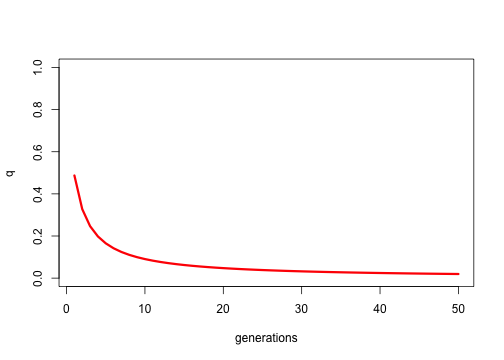
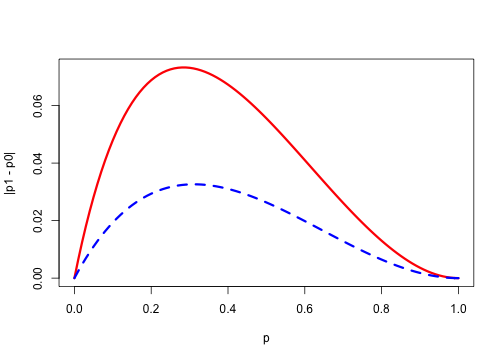
updated slides w2c2

diff --git a/2022-agro931/week2/week2_c2.html b/2022-agro931/week2/week2_c2.html
@@ -22,8 +22,6 @@ class: center, middle, inverse, title-slide
 
 
 
----
-
 # Selection
 
 Selection occurs due to differences in __viability__ and __fertility__ (natural or artificial)
@@ -48,7 +46,7 @@ The contribution of offspring to the next generation is called the __fitness__ o
 
 
 - Selection coefficient ( `\(s\)` ) 
-  - is the proportionate __REDUCTION__ in gametic contribution of a particular genotype _compared to the standard genotype_
+  - The proportionate __REDUCTION__ in gametic contribution of a particular genotype _compared to the standard genotype_
 
 - Relative fitness: `\(w = 1 -s\)`
   - Most fit is set to 1
@@ -186,7 +184,7 @@ plot(p, deltap(s=0.4, p), type="l", lwd=3, col="red", xlab="p", ylab="|p1 - p0|"
 lines(p, deltap(s=0.2, p), lty=2, lwd=3, col="blue")
 ```
 
-&lt;img src="week2_c2_files/figure-html/unnamed-chunk-1-1.png" style="display: block; margin: auto;" /&gt;
+&lt;img src="week2_c2_files/figure-html/unnamed-chunk-2-1.png" style="display: block; margin: auto;" /&gt;
 
 
 ---
@@ -199,11 +197,106 @@ lines(p, deltap(s=0.2, p), lty=2, lwd=3, col="blue")
   
   - Inefficient when targeted recessive allele is rare
 
+--
+
 ### Degree of dominance
+
+- It will become more complex
+
+---
+
+# Degree of dominance
+
+|                    | `\(A_1A_1\)`   | `\(A_1A_2\)`   | `\(A_2A_2\)`   | Total |
+| :-------: | : ------ : | :-------: | :-------: | :-------: |
+| Initial frq           | `\(p^2\)`    | `\(2pq\)`    | `\(q^2\)`     |  `\(1\)`        |
+| Fitness ( `\(w\)` ): recessive  |  `\(1\)`        |  `\(1\)`        |  `\(1 -s\)`   |   
+| Fitness ( `\(w\)` ): dominance   |  `\(w_{11}\)`        |  `\(w_{12}\)`        |  `\(w_{22}\)`   |            |
+| Gametic contribution | `\(p^2\)`   | `\(2pq\)`    | `\(q^2(1-s)\)`    |  `\(1-sq^2\)` |
+
+--
+
+### Recessive:
+
+`\begin{align*}
+p_1 &amp; = \frac{p^2 + pq}{p^2 + 2pq + q^2(1-s)} = \frac{p}{1- sq^2} \\
+\end{align*}`
+
+--
+
+### Degree of dominance:
+
+`\begin{align*}
+p_1 &amp; = \frac{p^2w_{11} + pqw_{12}}{p^2w_{11} + 2pqw_{12} + q^2w_{22}} \\
+\end{align*}`
+
+---
+
+# Average fitness
+
+`\begin{align*}
+p_1 &amp; = \frac{p^2w_{11} + pqw_{12}}{p^2w_{11} + 2pqw_{12} + q^2w_{22}} \\
+\end{align*}`
+
+`\begin{align*}
+\bar{w} = p^2w_{11} + 2pqw_{12} + q^2w_{22} \\
+\end{align*}`
+
+- `\(w_{11}\)`: genotype specific fitness for `\(A_1A_1\)`
+- `\(w_{12}\)`: genotype specific fitness for `\(A_1A_2\)`
+- `\(w_{22}\)`: genotype specific fitness for `\(A_2A_2\)`
+
+`\begin{align*}
+\Delta p &amp; = \frac{p^2w_{11} + pqw_{12}}{\bar{w}} - p \\
+&amp; = \frac{pq(p(w_{11} - w_{12}) + q(w_{12} - w_{22}))}{\bar{w}}
+\end{align*}`
+
+---
+
+# Practice Problem
+
+In a population of fireflies, allele `\(A_1\)` results in a brighter light. We wish to select for the `\(A_1\)` allele to save money on electricity.
+
+--
+
+36% of the population is `\(A_1A_1\)`. We spray all the dimly lit `\(A_2A_2\)` individuals so they are sterile but estimate that we missed 10%, which randomly mate with the others.
+
+--
+
+### Questions:
+
+- What is the fitness of each genotype?
+
+- What time of dominance model is this?
+
+- What is the proportion of fireflies _carrying_ the unwanted, `\(A_2\)` allele after one generation of selection?
+
+
+---
+
+# Average fitness
+
+- Define each of your variables ( `\(A_1\)`, `\(A_2\)`, `\(p\)`, `\(q\)` )
+
+- Identify % survial/contribution of each genotype
+
+- Calculate the relative fitness ( `\(w\)` ) for each genotype
+
+- Use the general equation with `\(\bar{w}\)`
+
+`\begin{align*}
+p_1 &amp; = \frac{p^2w_{11} + pqw_{12}}{p^2w_{11} + 2pqw_{12} + q^2w_{22}} \\
+\end{align*}`
+
+- When you get your answer does it make sense?
+
+  - For example, for the favorable allele, i.e., `\(A_1\)` allele, does `\(p_1\)` increase?
 
 ---
 
 # Allele freq change over time
+
+Selection for generations to achieve target frequency:
 
 - `\(p_0\)` = current frequency
 - `\(p_t\)` = frequency at future time
@@ -212,12 +305,9 @@ lines(p, deltap(s=0.2, p), lty=2, lwd=3, col="blue")
 --
 ----------
 
-
-
-
 ### Selection for Dominant allele ( `\(s=1\)` )
 
-(Same as selection against recessive genotype)
+It is the same as selection against recessive genotype.
 
 `\begin{align*}
 p_1 = &amp; \frac{p}{1 - sq^2} \\
@@ -244,8 +334,6 @@ p_2  &amp; = \frac{1+q}{1+2q} \\
 p_3  &amp; = \frac{1+2q}{1+3q} \\
 \end{align*}`
 
-
-
 --
 
 A pattern emerges ...
@@ -268,17 +356,57 @@ t &amp; = \frac{q_0 - q_t}{q_tq_0} = \frac{1}{q_t} - \frac{1}{q_0}
 
 # Simulation for selection against recessive
 
+`\begin{align*}
+p_t  &amp; = \frac{1+(t-1)q_0}{1+tq_0} \\
+q_t  &amp; = 1- p_t = \frac{q_0}{1+tq_0} \\
+\end{align*}`
+
 
 ```r
-qt &lt;- function(q0, t){
-  return(q0/(1+t*q0))
-}
-
-t &lt;- 1:50
-plot(t, qt(0.95, t), type="l", lwd=3, col="red", xlab="generations", ylab="q", ylim=c(0, 1))
+get_pt &lt;- function(p0, t){
+  q0 &lt;- 1 - p0
+  return(1- q0/(1+t*q0))
+  }
 ```
 
-&lt;img src="week2_c2_files/figure-html/unnamed-chunk-2-1.png" style="display: block; margin: auto;" /&gt;
+--
+
+`\begin{align*}
+t &amp; = \frac{q_0 - q_t}{q_tq_0} = \frac{1}{q_t} - \frac{1}{q_0}
+\end{align*}`
+
+
+```r
+get_t &lt;- function(p0, pt){
+  q0 = 1- p0
+  qt = 1 - pt
+  return(1/qt - 1/q0)
+  }
+```
+
+---
+
+# Simulation for selection against recessive
+
+
+```r
+t &lt;- 1:50
+plot(t, get_pt(0.05, t), type="l", lwd=3, col="red", 
+     xlab="generations", ylab="q", ylim=c(0, 1))
+points(x=get_t(p0=0.05, pt=0.6), y=0.6, col="blue", cex=3)
+points(x=get_t(p0=0.05, pt=0.9), y=0.9, col="blue", cex=3)
+```
+
+&lt;img src="week2_c2_files/figure-html/unnamed-chunk-5-1.png" style="display: block; margin: auto;" /&gt;
+
+```r
+get_t(p0=0.6, pt=0.9) #7.5
+```
+
+```
+## [1] 7.5
+```
+
 
 
 
